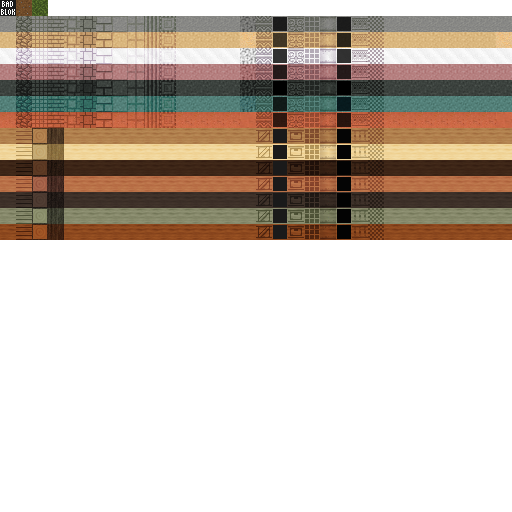
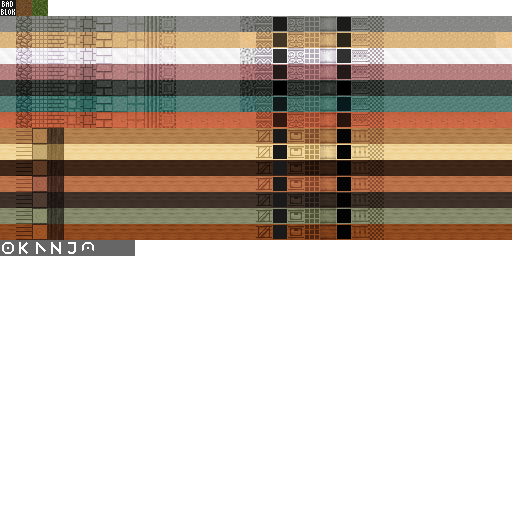
Implement token object and rune materials

Changed region(s): [[0.0, 0.4688, 0.2812, 0.5]]

diff --git a/src/board_entity.cc b/src/board_entity.cc
@@ -4,6 +4,15 @@
 
 #include "context.h"
 
+enum {
+	FLAG_EXISTS = 1 << 0,
+	FLAG_ON = 1 << 1,
+	FLAG_LF = 1 << 2,
+	FLAG_RT = 1 << 3,
+	FLAG_BK = 1 << 4,
+	FLAG_FT = 1 << 5,
+};
+
 BoardEntity::BoardEntity(Context *ctx) : BlockEntity(ctx, 64)
 {
 }
@@ -12,8 +21,70 @@ BoardEntity::~BoardEntity()
 {
 }
 
+void BoardEntity::test(const v2s &p, int i, int min, int max)
+{
+	int acc = 0;
+	if (p.x > 0) {
+		int j = (p.x - 1) * 8 + p.y;
+		if ((items[j].num & FLAG_ON) != 0
+				&& (items[j].num & FLAG_RT) == 0) {
+			tmp[i] |= FLAG_LF;
+			++acc;
+		}
+	}
+	if (p.x < 7) {
+		int j = (p.x + 1) * 8 + p.y;
+		if ((items[j].num & FLAG_ON) != 0
+				&& (items[j].num & FLAG_LF) == 0) {
+			tmp[i] |= FLAG_RT;
+			++acc;
+		}
+	}
+	if (p.y > 0) {
+		int j = p.x * 8 + (p.y - 1);
+		if ((items[j].num & FLAG_ON) != 0
+				&& (items[j].num & FLAG_FT) == 0) {
+			tmp[i] |= FLAG_BK;
+			++acc;
+		}
+	}
+	if (p.y < 7) {
+		int j = p.x * 8 + (p.y + 1);
+		if ((items[j].num & FLAG_ON) != 0
+				&& (items[j].num & FLAG_BK) == 0) {
+			tmp[i] |= FLAG_FT;
+			++acc;
+		}
+	}
+	if (acc >= min && acc <= max) {
+		tmp[i] |= FLAG_ON;
+	}
+}
+
 void BoardEntity::update()
 {
+	int i = 0;
+	for (auto p : box2s(0, 0, 8, 8)) {
+		if (items[i].num > 0) {
+			tmp[i] = FLAG_EXISTS;
+			if (items[i].mat == MAT_RUNE_O) {
+				items[i].num |= FLAG_ON;
+			} else if (items[i].mat == MAT_RUNE_K) {
+				test(p, i, 2, 4);
+			} else if (items[i].mat == MAT_RUNE_A) {
+				test(p, i, 1, 4);
+			} else if (items[i].mat == MAT_RUNE_N) {
+				test(p, i, 0, 0);
+			} else if (items[i].mat == MAT_RUNE_J) {
+				test(p, i, 1, 1);
+			}
+		} else {
+			tmp[i] = 0;
+		}
+		++i;
+	}
+	for (i = 0; i < 64; ++i)
+		items[i].num = tmp[i];
 }
 
 void BoardEntity::render()

diff --git a/src/renderer.cc b/src/renderer.cc
@@ -194,6 +194,10 @@ void Renderer::render_item(int obj, int mat, GLfloat alpha)
 		obj_vertex_buffer->enable();
 		obj_vertex_buffer->draw_slice(GL_TRIANGLES, 0, 162 * mat + 126, 36);
 		obj_vertex_buffer->disable();
+	} else if (obj == OBJ_TOKEN) {
+		obj_vertex_buffer->enable();
+		obj_vertex_buffer->draw_slice(GL_TRIANGLES, 0, 162 * mat + 36, 36);
+		obj_vertex_buffer->disable();
 	}
 	shader->disable();
 	//glDisable(GL_TEXTURE_2D);
@@ -232,8 +236,15 @@ void Renderer::render_inventory(const std::vector<Item> &inv, const v3ll &p)
 			if (s.num > 0) {
 				glColor4ub(0, 0, 0, alpha);
 				glPushMatrix();
-				glTranslatef(.25 / side, 0, .25 / side);
-				glScalef(.5 / side, .5 / side, .5 / side);
+				glTranslatef(.5 / side - .0625, 0, .5 / side - .0625); /*
+				if (s.obj == OBJ_TOKEN) {
+					v3f r = ctx->renderer->get_cam()->get_r();
+					glTranslatef(.25 / side, .25 / side, .25 / side);
+					glRotatef(180.0 * r.y / M_PI, 0, -1, 0);
+					glRotatef(180.0 * r.x / M_PI, 1, 0, 0);
+					glTranslatef(-.25 / side, -.25 / side, -.25 / side);
+				}*/
+				glScalef(.125, .125, .125);
 				render_item(s.obj, s.mat, alpha);
 				glPopMatrix();
 			}

diff --git a/src/types.cc b/src/types.cc
@@ -13,6 +13,7 @@ const char *obj_names[256] = {
 	[OBJ_STAIRS] = "stairs",
 	[OBJ_PANE] = "pane",
 	[OBJ_FLUID] = "fluid",
+	[OBJ_TOKEN] = "token",
 };
 
 const char *mat_names[256] = {
@@ -144,6 +145,13 @@ const char *mat_names[256] = {
 	[MAT_WOOD7_PIPE] = "wood7_pipe",
 	[MAT_WOOD7_LOG] = "wood7_log",
 	[MAT_WOOD7_BOARD] = "wood7_board",
+	[MAT_RUNE_O] = "rune_o",
+	[MAT_RUNE_K] = "rune_k",
+	[MAT_RUNE_A] = "rune_a",
+	[MAT_RUNE_N] = "rune_n",
+	[MAT_RUNE_J] = "rune_j",
+	[MAT_RUNE_C] = "rune_c",
+	[MAT_RUNE_E] = "rune_e",
 };
 
 const char *shape_names[256] = {

diff --git a/src/types.h b/src/types.h
@@ -12,6 +12,7 @@ enum {
 	OBJ_STAIRS,	/* stairs */
 	OBJ_PANE,	/* thin pane in the middle */
 	OBJ_FLUID,	/* object for flowsims (debug only) */
+	OBJ_TOKEN,	/* A bit of something */
 	OBJ_COUNT
 };
 
@@ -144,6 +145,13 @@ enum {
 	MAT_WOOD7_PIPE,
 	MAT_WOOD7_LOG,
 	MAT_WOOD7_BOARD,
+	MAT_RUNE_O = 0xF0,/* Signal generator */
+	MAT_RUNE_K,	/* boolean "and" */
+	MAT_RUNE_A,	/* boolean "or" */
+	MAT_RUNE_N,	/* boolean "not" */
+	MAT_RUNE_J,	/* boolean "xor" */
+	MAT_RUNE_C,	/* boolean "->" */
+	MAT_RUNE_E,	/* boolean "<->" */
 	MAT_COUNT,
 };
 

diff --git a/src/vertex_buffer.cc b/src/vertex_buffer.cc
@@ -61,6 +61,13 @@ void populate_material_texcoord_table()
 	WOOD_TC(MAT_WOOD5, 12);
 	WOOD_TC(MAT_WOOD6, 13);
 	WOOD_TC(MAT_WOOD7, 14);
+	TC(MAT_RUNE_O, 7, 15, 0, 15, 7, 15);
+	TC(MAT_RUNE_K, 7, 15, 1, 15, 7, 15);
+	TC(MAT_RUNE_A, 7, 15, 2, 15, 7, 15);
+	TC(MAT_RUNE_N, 7, 15, 3, 15, 7, 15);
+	TC(MAT_RUNE_J, 7, 15, 4, 15, 7, 15);
+	TC(MAT_RUNE_C, 7, 15, 5, 15, 7, 15);
+	TC(MAT_RUNE_E, 7, 15, 6, 15, 7, 15);
 };
 
 struct VertexDesc vertices_face_dn[] = {

diff --git a/src/player_entity.cc b/src/player_entity.cc
@@ -254,10 +254,13 @@ void PlayerEntity::use_tool()
 			else
 				ctx->world->set_block(p, SHAPE_PANE_Z, s.mat);
 		}
-		/*	} else if (s.obj == OBJ_FLUID) {
-			flowsim_add(flowsim, p, 1);*/
-}
---s.num;
+	} else if (s.obj == OBJ_FLUID) {
+		/*	flowsim_add(flowsim, p, 1);*/
+	} else {
+		/* Not a placeable object */
+		return;
+	}
+	--s.num;
 }
 
 void PlayerEntity::render()

diff --git a/src/board_entity.h b/src/board_entity.h
@@ -17,6 +17,11 @@ class BoardEntity : public BlockEntity {
 	bool use(PlayerEntity *player);
 
 	const char *get_name() { return "board"; }
+
+ private:
+	unsigned char tmp[64];
+
+	void test(const v2s &p, int i, int min, int max);
 };
 
 #endif  // SRC_BOARD_ENTITY_H_
